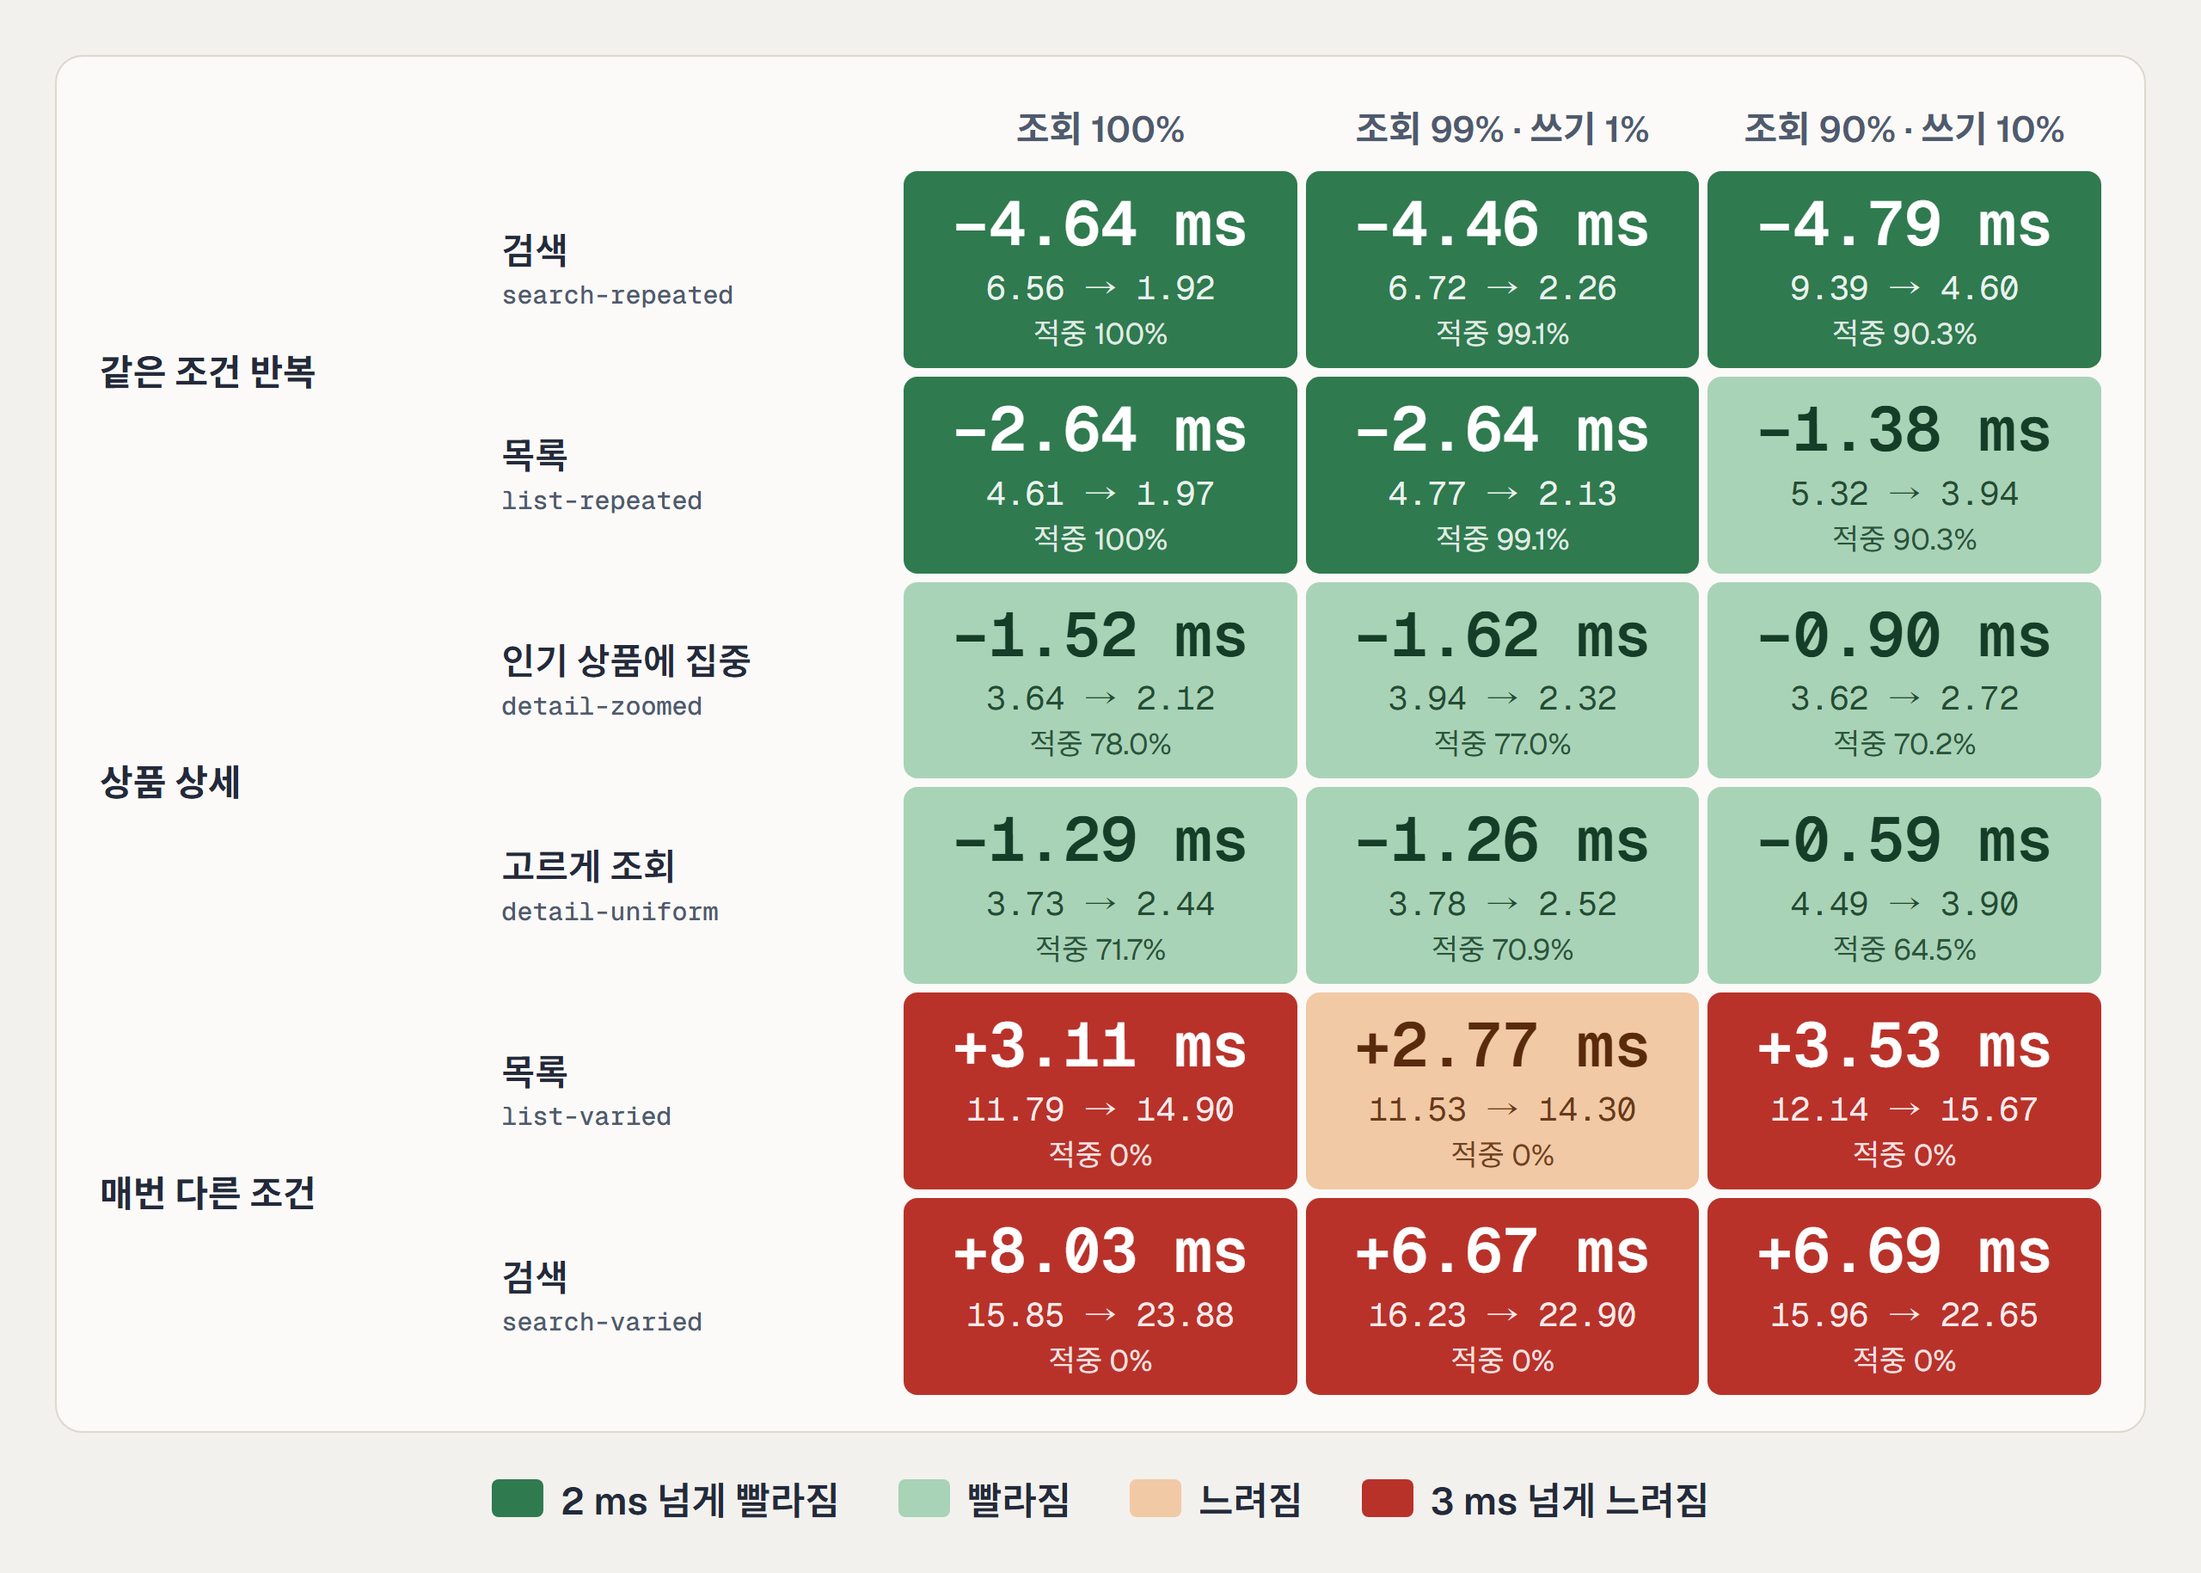
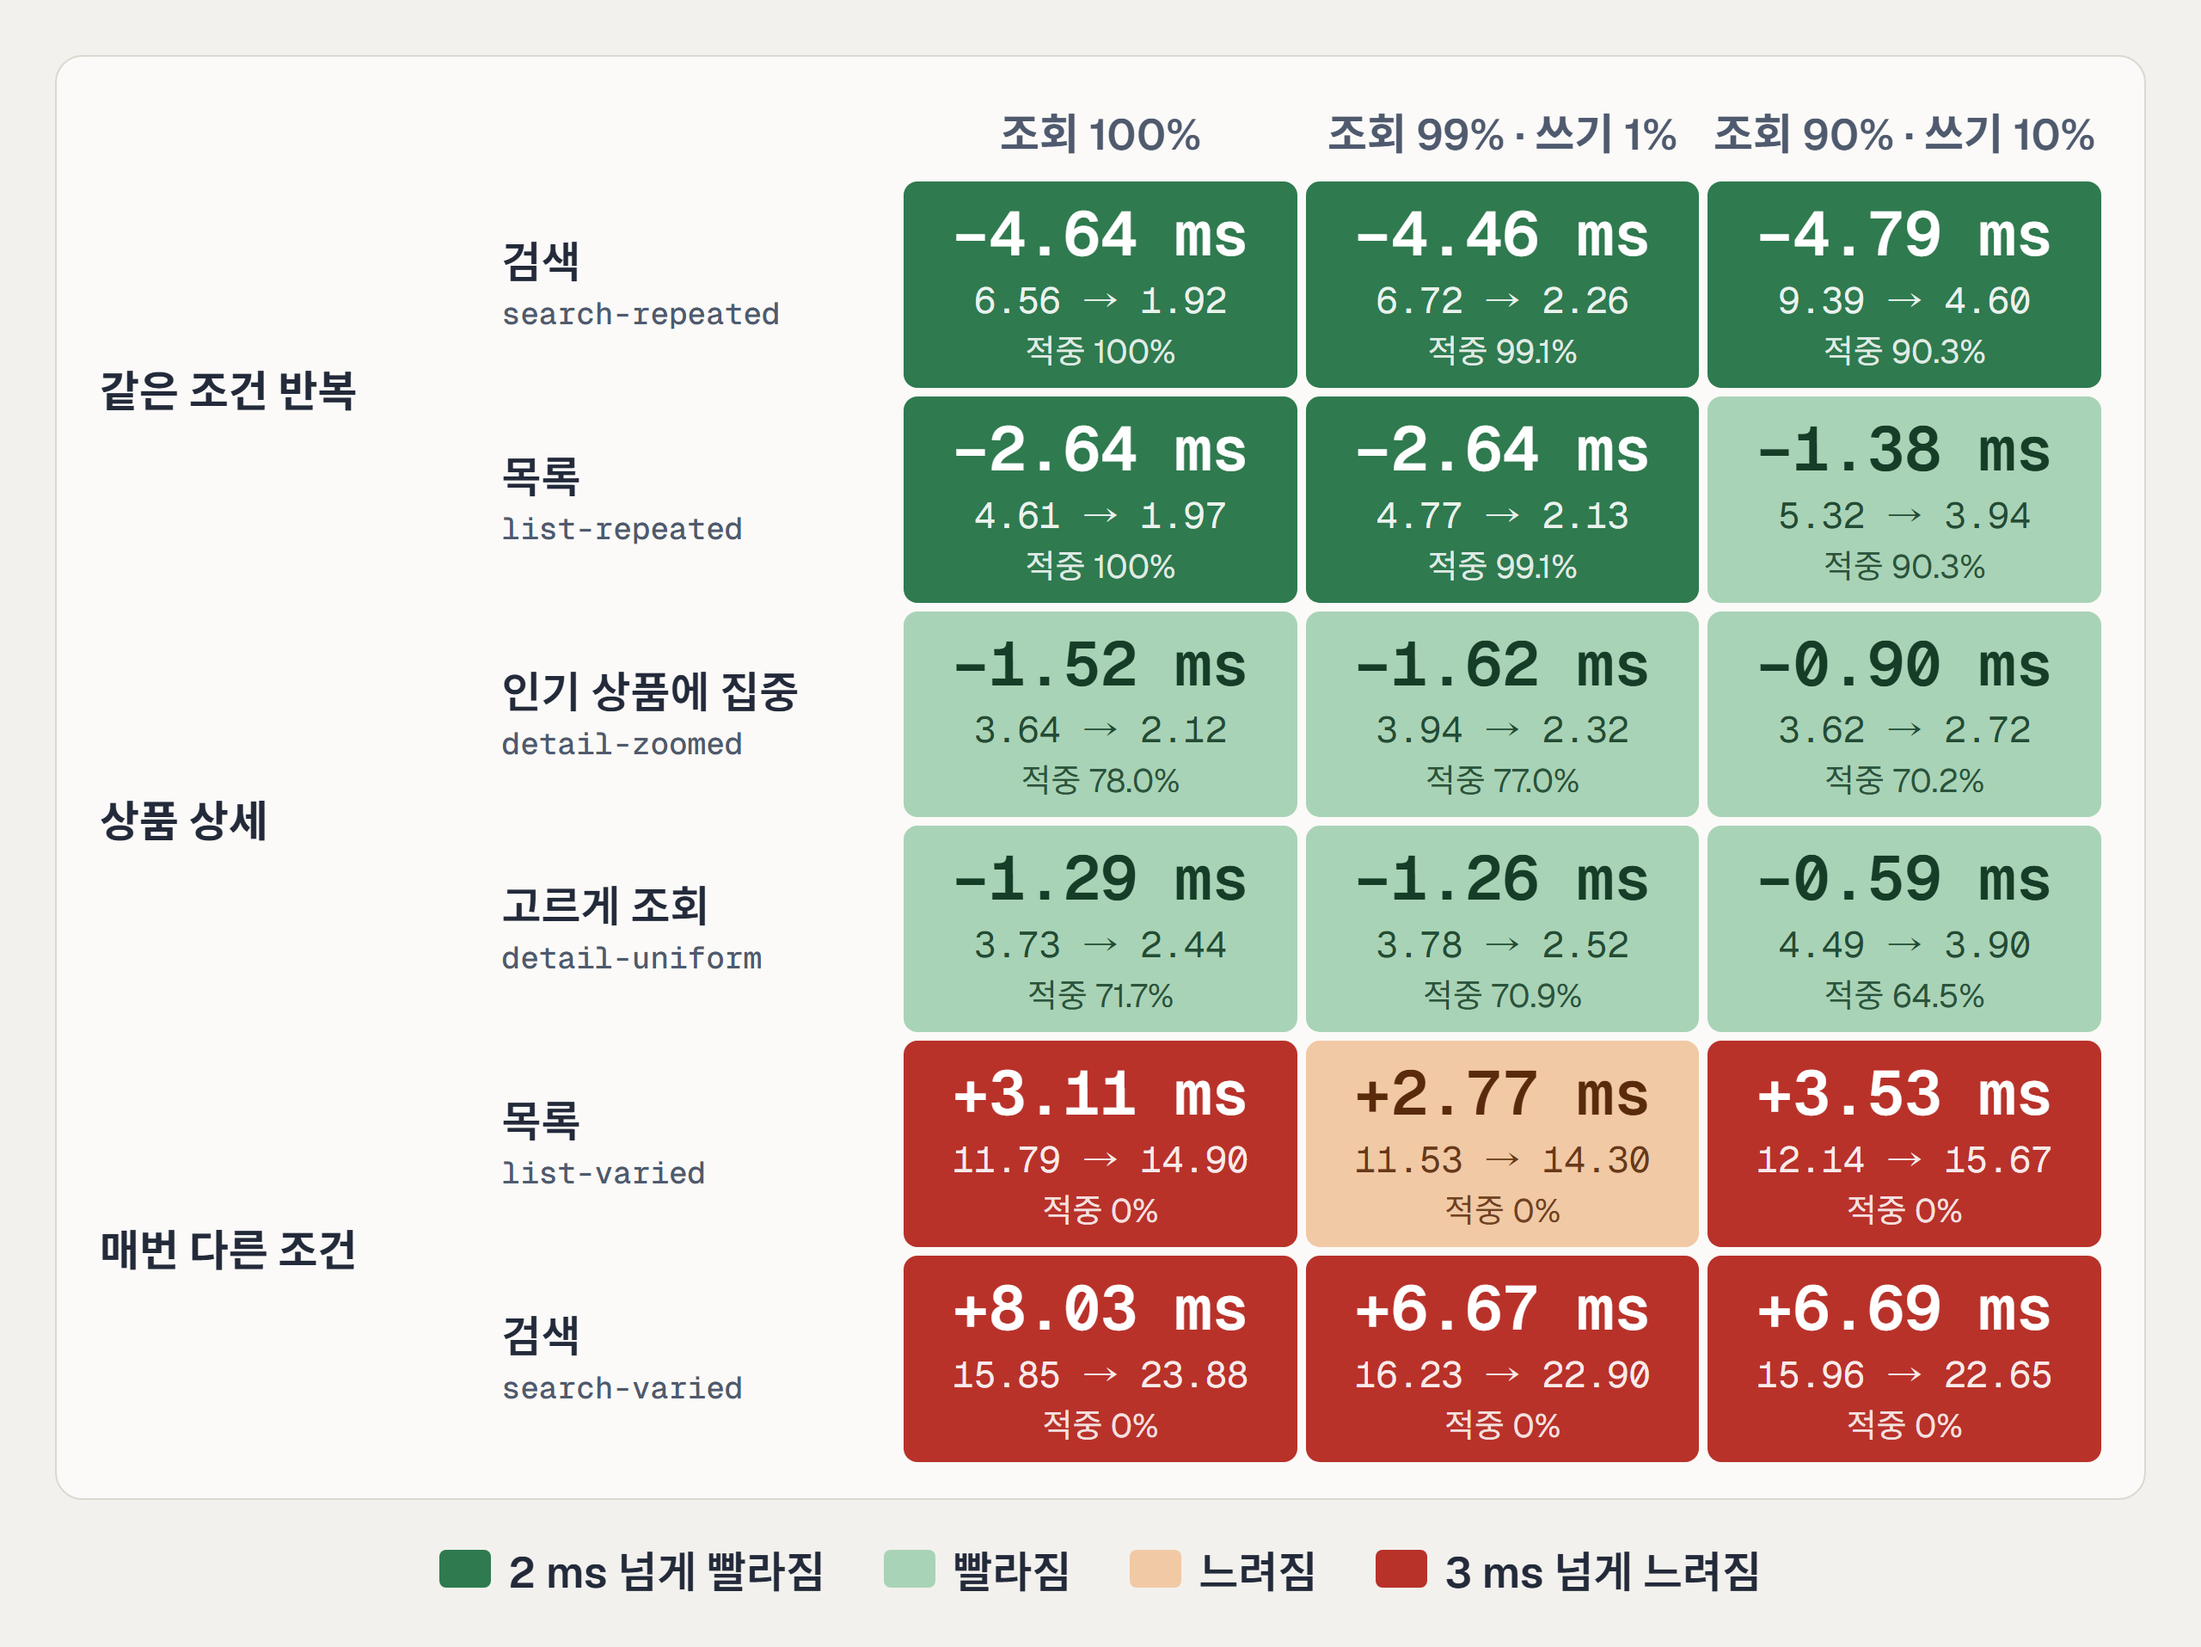
캐시 성능 비교 그래프의 글자와 열 너비를 키웁니다

diff --git a/docs/images/mini-redis-cache-heatmap.html b/docs/images/mini-redis-cache-heatmap.html
@@ -13,19 +13,19 @@ body{font-family:var(--sans);background:var(--paper);color:var(--ink);word-break
 .frame{width:1280px;padding:32px}
 .panel{background:var(--card);border:1px solid var(--line);border-radius:16px;padding:20px 20px 16px}
 table{width:100%;border-collapse:separate;border-spacing:5px;table-layout:fixed}
-thead th{font-size:21px;font-weight:700;color:var(--muted);padding-bottom:6px}
-th.grp{width:120px;font-size:21px;font-weight:700;text-align:left;vertical-align:middle;line-height:1.3}
-th.sc{width:200px;font-size:21px;font-weight:600;text-align:left;line-height:1.3}
-th.sc code{display:block;font-family:var(--mono);font-size:15px;font-weight:500;color:var(--muted);margin-top:2px}
+thead th{font-size:25px;font-weight:700;color:var(--muted);padding-bottom:6px}
+th.grp{width:140px;font-size:25px;font-weight:700;text-align:left;vertical-align:middle;line-height:1.3}
+th.sc{width:240px;font-size:25px;font-weight:600;text-align:left;line-height:1.3}
+th.sc code{display:block;font-family:var(--mono);font-size:18px;font-weight:500;color:var(--muted);margin-top:2px}
 tbody tr.gs:not(:first-child) td, tbody tr.gs:not(:first-child) th{box-shadow:0 -8px 0 -3px var(--card)}
 td{border-radius:8px;padding:10px 6px 9px;text-align:center;height:112px}
 td b{display:block;font-family:var(--mono);font-size:36px;font-weight:600;line-height:1.15}
-td span{display:block;font-family:var(--mono);font-size:19px;opacity:.9;margin-top:4px}
-td small{display:block;font-size:17px;opacity:.85;margin-top:1px}
+td span{display:block;font-family:var(--mono);font-size:21px;opacity:.9;margin-top:4px}
+td small{display:block;font-size:19px;opacity:.85;margin-top:1px}
 .g2{background:#2f7a4f;color:#fff} .g1{background:#a9d3b6;color:#163d27}
 .n{background:#e6e3dc;color:var(--ink)}
 .o1{background:#f1c9a5;color:#5a2a0c} .o2{background:#b8322a;color:#fff}
-.legend{margin-top:22px;display:flex;justify-content:center;flex-wrap:wrap;gap:12px 34px;font-size:22px;font-weight:600;color:var(--ink)}
+.legend{margin-top:22px;display:flex;justify-content:center;flex-wrap:wrap;gap:12px 34px;font-size:25px;font-weight:600;color:var(--ink)}
 .legend span{display:inline-flex;align-items:center;gap:10px}
 .legend i{width:30px;height:22px;border-radius:4px;display:inline-block}
 </style></head><body><div class="frame">
